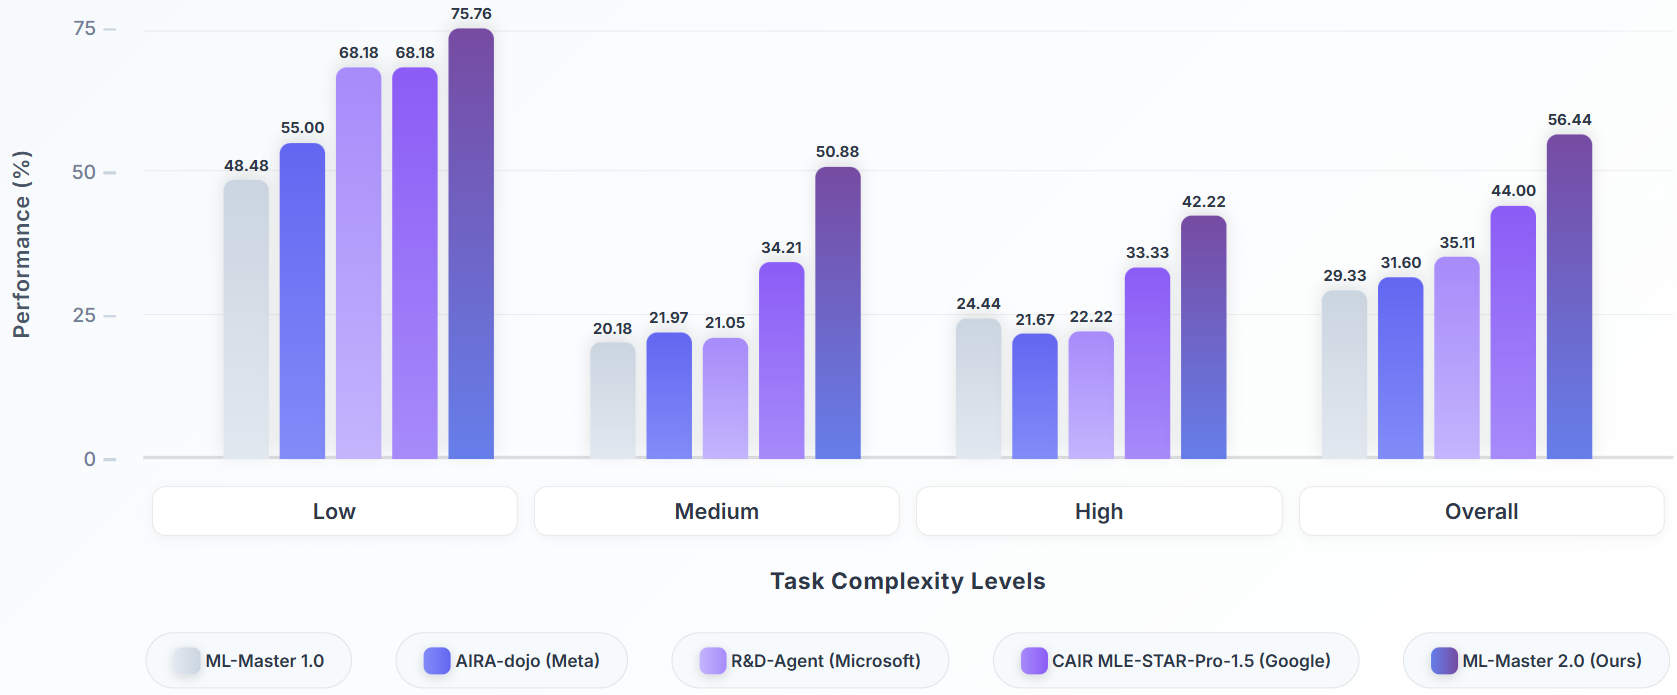
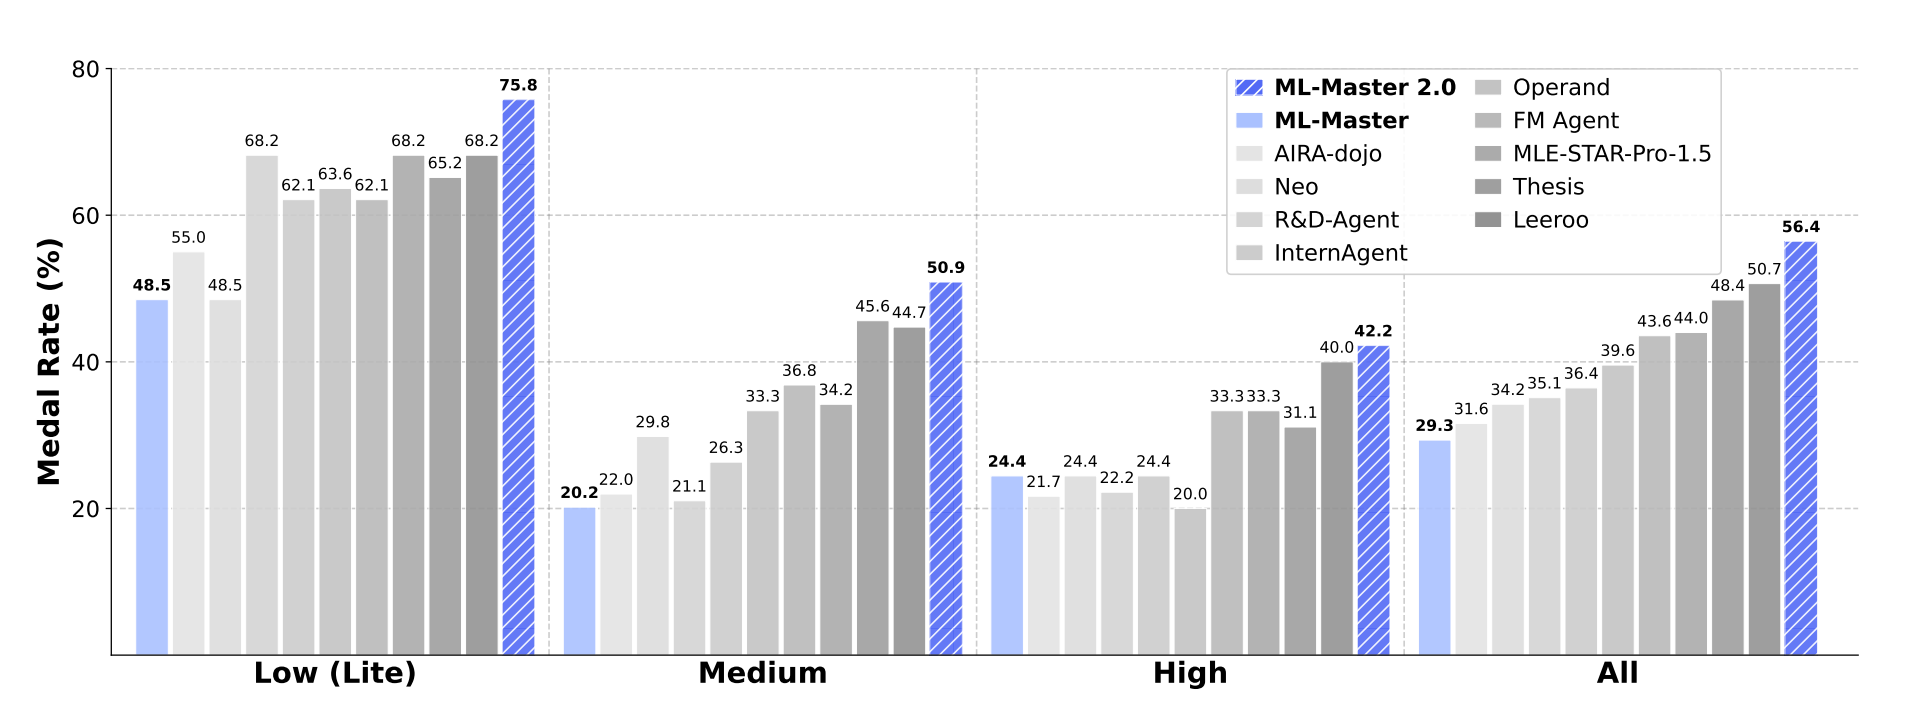
add paper link for ml-master 2.0

diff --git a/README.md b/README.md
@@ -5,7 +5,7 @@
 </div>
 
 ## 📰 What's New
-
+- [2026/01/16] Release the preprint version of ML-Master 2.0! See the [ArXiv](https://arxiv.org/abs/2601.10402).
 - [2025/12/16] 🎉 **ML-Master 2.0 reaches new heights!**  Achieving #1 on [MLE-Bench](https://github.com/openai/mle-bench) Leaderboard with 56.44% overall performance (92.7% improvement over 1.0).
 - [2025/10/30] We upload a new branch `feature-dev` with improved readability and maintainability. If you need to continue developing on ML-Master or apply ML-Master to downstream tasks, please switch the branch to `feature-dev`. 
 - [2025/10/29] We now provide a Docker image for environment setup! Check it out [here](https://hub.docker.com/r/sjtuagents/ml-master).
@@ -14,12 +14,17 @@
 - [2025/06/19] Release the preprint version! See the [ArXiv](https://arxiv.org/abs/2506.16499).
 - [2025/06/17] Release the initial version! See the initial manuscript [here](./assets/ML-Master_github.pdf).
 
-# ML-Master 2.0: Next-Generation AI-for-AI Agent
+# ML-Master 2.0: Cognitive Accumulation for Ultra-Long-Horizon Agentic Science in Machine Learning Engineering
 [![project](https://img.shields.io/badge/project-Page-blue)](https://sjtu-sai-agents.github.io/ML-Master)
+[![arXiv](https://img.shields.io/badge/arXiv-2601.10402-b31b1b.svg)](https://arxiv.org/abs/2601.10402)
 [![WeChat](https://img.shields.io/badge/WeChat-新智元-lightgreen)](https://mp.weixin.qq.com/s/dv1MD5S2vr3MB-skV4Thrw)
 
-**ML-Master 2.0** is a next-generation AI-for-AI agent achieving breakthrough performance through deep integration of exploration and reasoning.
 
+## 🚀 Overview
+
+**ML-Master 2.0** is a pioneering agentic science framework that tackles the challenge of ultra-long-horizon autonomy through cognitive accumulation, facilitated by a Hierarchical Cognitive Caching (HCC) architecture that dynamically distills transient execution traces into stable long-term knowledge, ensuring that tactical execution and strategic planning remain decoupled yet co-evolve throughout complex, long-horizon scientific explorations. 
+
+![ML-Master 2.0](./assets/ML-Master2.0-figure.png)
 
 ## 📊 Performance Highlights
 
@@ -34,6 +39,12 @@
 | 🟡 Medium Complexity       | 20.18         | **50.88**     | **+152.2% ↑**      |
 | 🔴 High Complexity         | 24.44         | **42.22**     | **+72.8% ↑**       |
 
+## 📆 Coming Soon
+
+- [x] Grading report release
+- [x] Paper release of ML-Master 2.0
+- [ ] Initial code release of ML-Master 2.0
+
 ## 🙏 Acknowledgements
 <table align="center">
   <tr>
@@ -46,6 +57,34 @@
     </td>
   </tr>
 </table>
+
+## ✍ Citation
+
+If you find our work helpful, please use the following citations.
+
+```bibtex
+@misc{zhu2026ultralonghorizonagenticsciencecognitive,
+      title={Toward Ultra-Long-Horizon Agentic Science: Cognitive Accumulation for Machine Learning Engineering}, 
+      author={Xinyu Zhu and Yuzhu Cai and Zexi Liu and Bingyang Zheng and Cheng Wang and Rui Ye and Jiaao Chen and Hanrui Wang and Wei-Chen Wang and Yuzhi Zhang and Linfeng Zhang and Weinan E and Di Jin and Siheng Chen},
+      year={2026},
+      eprint={2601.10402},
+      archivePrefix={arXiv},
+      primaryClass={cs.AI},
+      url={https://arxiv.org/abs/2601.10402}, 
+}
+```
+
+```bibtex
+@misc{liu2025mlmasteraiforaiintegrationexploration,
+      title={ML-Master: Towards AI-for-AI via Integration of Exploration and Reasoning}, 
+      author={Zexi Liu and Yuzhu Cai and Xinyu Zhu and Yujie Zheng and Runkun Chen and Ying Wen and Yanfeng Wang and Weinan E and Siheng Chen},
+      year={2025},
+      eprint={2506.16499},
+      archivePrefix={arXiv},
+      primaryClass={cs.AI},
+      url={https://arxiv.org/abs/2506.16499}, 
+}
+```
 
 ---
 
